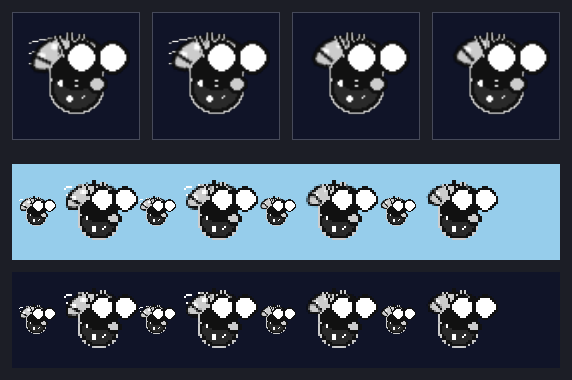
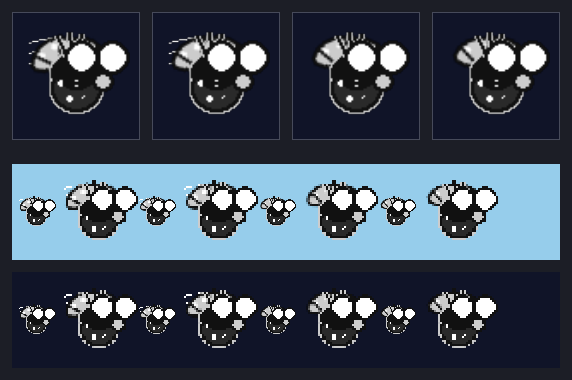
fly pop_v2 R3: MIDNIGHT NOIR — night rim, dominate eyes, tame wings, halo setae
Claude-Session: https://claude.ai/code/session_01K6KPJsdtoYoDR2za2Jqnmo

diff --git a/tools/fly_candidates/pop_v2.py b/tools/fly_candidates/pop_v2.py
@@ -214,8 +214,8 @@ def build_pop_v2(wing_angle_deg):
     # Round sponge labellum (mouth pad) below the face — small (r4) and #CCCCCC
     # so it is a clearly dimmer grey pad that NEVER out-brights the white eyes.
     lab = _new()
-    lr = pygame.Rect(0, 0, 8, 7)
-    lr.center = (44, 46)
+    lr = pygame.Rect(0, 0, 9, 8)
+    lr.center = (47, 45)
     pygame.draw.ellipse(lab, LABELLUM, lr)
     surf.blit(_ink_outline(lab, 2), (0, 0))
 
